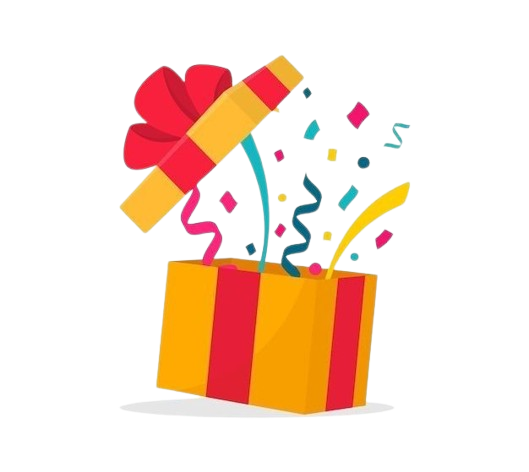
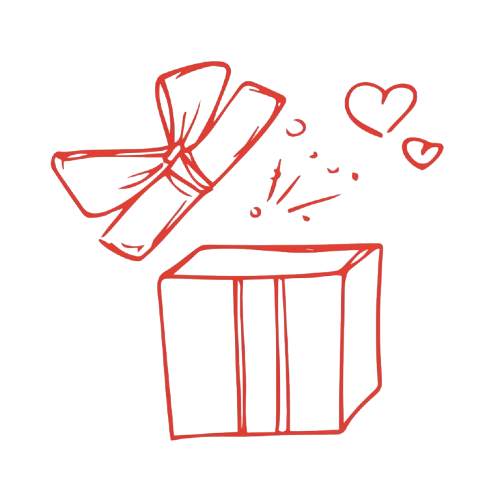
Updated Commit

diff --git a/app/(auth)/congrats.jsx b/app/(auth)/congrats.jsx
@@ -1,16 +1,62 @@
-import { StyleSheet, Text, View } from 'react-native'
-import React from 'react'
+import React, {useState} from 'react'
+import { StyleSheet, Text, View, useColorScheme, Image,ScrollView,Dimensions } from 'react-native'
+import { Link } from 'expo-router'
+import { Colors } from '../../constants/colors'
 import CongratsLogo from "../../assets/congrats.png";
 
 const congrats = () => {
+  const colorScheme = useColorScheme()
+    const theme = Colors[colorScheme] ?? Colors.light // default to light theme
   return (
-    <View>
-      <Text>congrats</Text>
+  
+  <View style={{ flex: 1, backgroundColor: theme.background }}>
+    <View style={styles.container}>
+
+ {/* Congratulation picture */}
+      <View style={styles.CongratsLogoContainer}>
+        <Image source={CongratsLogo} style={styles.CongratsLogo} resizeMode="contain" />
+      </View> 
+  
+
+    {/* Header */}
+         <Text style={[styles.header, { color: theme.text }]}>
+          Congratulation!
+         </Text>
+   
     </View>
+     </View>
   )
 }
 
 export default congrats
 
 
-const styles = StyleSheet.create({})
+const styles = StyleSheet.create({
+   container: {
+    flex: 1,
+    justifyContent: 'center',
+    alignItems: 'center',
+  },
+  header: {
+    fontWeight: '700',
+    textAlign: 'center',
+    marginTop:0,
+    fontSize: 26,
+    paddingBottom: 5,
+  },
+ CongratsLogoContainer: {
+    width: 400,
+    height: 300,
+    alignItems: 'center',
+    justifyContent: 'center',
+    padding: 10,
+    marginTop: -300,
+  },
+  
+
+CongratsLogo: {
+    width: '70%',
+    height: '70%',
+  },
+
+})

diff --git a/app/(auth)/emailauth.jsx b/app/(auth)/emailauth.jsx
@@ -1,8 +1,7 @@
 import { StyleSheet, Text, View, TextInput, Pressable, useColorScheme } from 'react-native';
 import React, { useState, useRef } from 'react';
 import { useRouter, useLocalSearchParams } from 'expo-router';
-import { Colors } from '../../constants/colors';
-
+import { Colors } from '../../constants/colors'
 const EmailAuth = () => {
 
   const { name, email, password } = useLocalSearchParams();
@@ -34,6 +33,13 @@ const EmailAuth = () => {
     console.log("Resending OTP to:", email);
   };
 
+  // ✅ FIX 2: extracted into a clean handler function
+  const handleVerify = () => {
+    const code = otp.join('');
+    console.log("OTP:", code);
+    router.push({ pathname: '/congrats' }); // ✅ FIX 1: was `route.push`
+  };
+
   return (
     <View style={[styles.container, { backgroundColor: theme.background }]}>
 
@@ -42,10 +48,10 @@ const EmailAuth = () => {
           Verification Email
         </Text>
 
-       <Text style={[styles.subHeader, { color: theme.text }]}>
+        <Text style={[styles.subHeader, { color: theme.text }]}>
           Enter the code we sent to <Text style={{ fontWeight: 'bold', color: theme.text }}>
-    {email}
-  </Text>
+            {email}
+          </Text>
         </Text>
 
         {/* OTP INPUT */}
@@ -55,7 +61,7 @@ const EmailAuth = () => {
               key={index}
               ref={inputs[index]}
               style={[
-                 styles.otpInput,
+                styles.otpInput,
                 { borderColor: theme.border, color: theme.text }
               ]}
               keyboardType="number-pad"
@@ -68,22 +74,19 @@ const EmailAuth = () => {
 
         {/* RESEND */}
         <View style={styles.resendContainer}>
-          <Text style={[styles.linkText, { color: theme.text,opacity:0.4 }]}>
+          <Text style={[styles.linkText, { color: theme.text, opacity: 0.4 }]}>
             Didn't receive the code?
           </Text>
 
           <Pressable onPress={handleResend}>
-            <Text style={{ color: theme.warning, paddingBottom:5, paddingLeft:5 }}>Resend Code</Text>
+            <Text style={{ color: theme.warning, paddingBottom: 5, paddingLeft: 5 }}>Resend Code</Text>
           </Pressable>
         </View>
 
         {/* VERIFY BUTTON */}
         <Pressable
           style={styles.verifyButton}
-          onPress={() => {
-            const code = otp.join('');
-            console.log("OTP:", code);
-          }}
+          onPress={handleVerify}  // ✅ clean handler call
         >
           <Text style={styles.verifyText}>Continue</Text>
         </Pressable>
@@ -96,37 +99,30 @@ const EmailAuth = () => {
 export default EmailAuth;
 
 const styles = StyleSheet.create({
-
   container: {
     flex: 1,
     padding: 20,
   },
-
   headerContainer: {
     marginTop: 20,
     marginBottom: 30,
   },
-  
-
   header: {
     fontSize: 26,
     fontWeight: '900',
     textAlign: 'center'
   },
-
   subHeader: {
     fontSize: 14,
     opacity: 0.6,
     marginTop: 10,
     textAlign: 'center'
   },
-
   otpContainer: {
     flexDirection: 'row',
     justifyContent: 'space-between',
     marginTop: 40,
   },
-
   otpInput: {
     borderWidth: 1,
     borderRadius: 12,
@@ -136,20 +132,17 @@ const styles = StyleSheet.create({
     fontSize: 22,
     fontWeight: '700'
   },
-
   resendContainer: {
     marginTop: 40,
     alignItems: 'center',
-    flexDirection:'row',
-    justifyContent:'center'
+    flexDirection: 'row',
+    justifyContent: 'center'
   },
-
   linkText: {
     textAlign: 'center',
     fontWeight: '500',
     marginBottom: 5
   },
-
   verifyButton: {
     backgroundColor: '#E10600',
     padding: 10,
@@ -157,11 +150,9 @@ const styles = StyleSheet.create({
     alignItems: 'center',
     marginTop: 40
   },
-
   verifyText: {
     color: '#fff',
     fontSize: 18,
     fontWeight: '600'
   }
-
 });